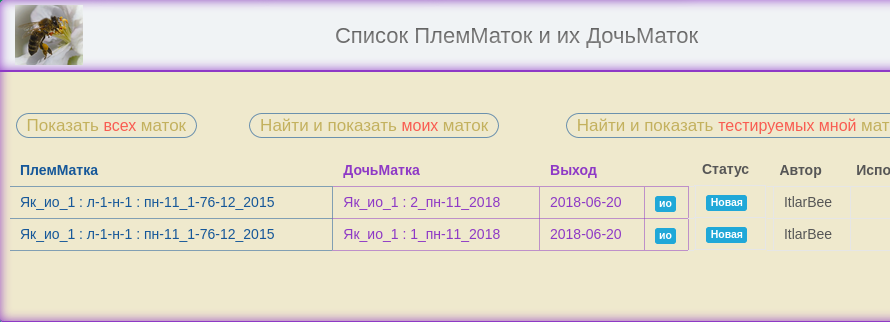
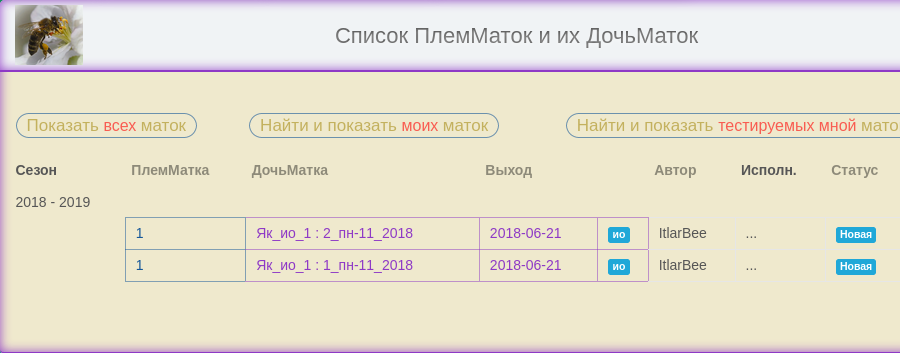
исправила child +  фикстуры

diff --git a/manager/public/assets/proekt/scss/paseka/matkas/_childmatka.scss b/manager/public/assets/proekt/scss/paseka/matkas/_childmatka.scss
@@ -88,7 +88,14 @@
   flex-direction: row;
   flex-wrap: wrap;
   margin-bottom: 20px;
-}  
+}
+
+.card-body-m{
+  flex: 1 1 auto;
+  padding: 0.7rem;
+  text-align: left;
+}
+
 .pull-right-m {
   float: right;
 }
